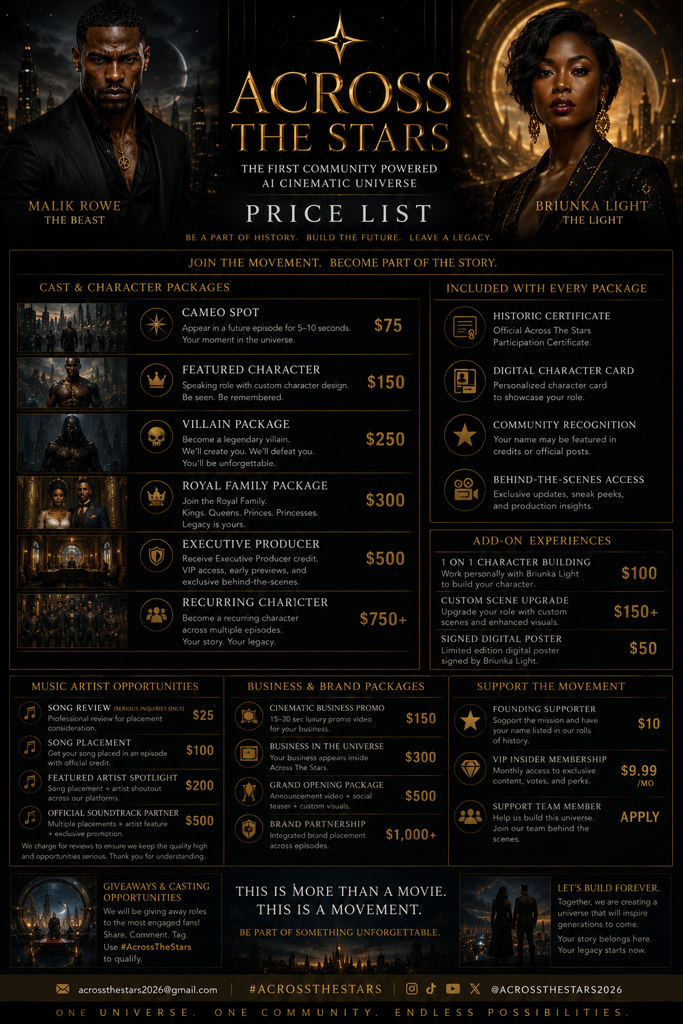
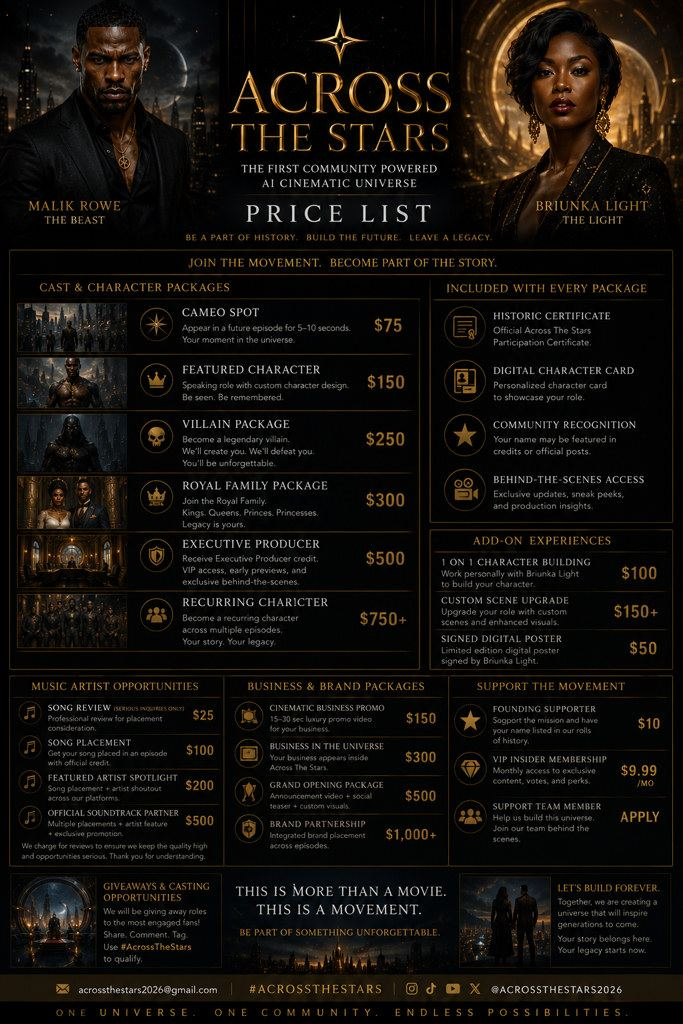
Use compressed JPEGs and Vercel serverless entry

diff --git a/js/briunka-link.js b/js/briunka-link.js
@@ -16,19 +16,19 @@ const PACKAGE_INCLUDES = [
 ];
 
 const ARTWORK = [
-    { src: 'assets/images/briunka-belight.png', label: 'Be Light' },
-    { src: 'assets/images/briunka-halo.png', label: 'Halo' },
-    { src: 'assets/images/briunka-city.png', label: 'City Lights' },
-    { src: 'assets/images/briunka-stairs.png', label: 'Ascension' },
-    { src: 'assets/images/briunka-jungle.png', label: 'Jungle Queen' },
-    { src: 'assets/images/briunka-cross.png', label: 'Divine Cross' }
+    { src: 'assets/images/briunka-belight.jpg', label: 'Be Light' },
+    { src: 'assets/images/briunka-halo.jpg', label: 'Halo' },
+    { src: 'assets/images/briunka-city.jpg', label: 'City Lights' },
+    { src: 'assets/images/briunka-stairs.jpg', label: 'Ascension' },
+    { src: 'assets/images/briunka-jungle.jpg', label: 'Jungle Queen' },
+    { src: 'assets/images/briunka-cross.jpg', label: 'Divine Cross' }
 ];
 
 const DEFAULT_CONFIG = {
     name: 'Briunka Light',
     tagline: 'Across the Stars · Light Works Entertainment',
     bio: 'The First Community Powered AI Cinematic Universe. Be part of history. Build the future. Leave a legacy.',
-    avatar: 'assets/images/briunka-halo.png',
+    avatar: 'assets/images/briunka-halo.jpg',
     heroArt: 0,
     priceSheet: 'assets/images/across-the-stars-price-sheet.jpg',
     contactEmail: 'acrossthestars2026@gmail.com',
@@ -180,18 +180,18 @@ const DEFAULT_CONFIG = {
             price: 25,
             type: 'digital',
             url: '',
-            image: 'assets/images/briunka-belight.png',
+            image: 'assets/images/briunka-belight.jpg',
             description: 'Starter digital drop — rename this in Creator Studio and set your real file or checkout.',
             visible: true
         }
     ],
     casting: [
-        { id: 'ats-cameo', name: 'Cameo Spot', movie: 'Across the Stars', position: 'Cameo · 5–10 sec appearance', description: 'Appear in a future episode for 5–10 seconds. Upload your photos — we craft your AI likeness.', price: 75, category: 'cast', requiresPhotos: true, featured: true, type: 'casting', image: 'assets/images/briunka-belight.png', visible: true },
+        { id: 'ats-cameo', name: 'Cameo Spot', movie: 'Across the Stars', position: 'Cameo · 5–10 sec appearance', description: 'Appear in a future episode for 5–10 seconds. Upload your photos — we craft your AI likeness.', price: 75, category: 'cast', requiresPhotos: true, featured: true, type: 'casting', image: 'assets/images/briunka-belight.jpg', visible: true },
         { id: 'ats-featured', name: 'Featured Character', movie: 'Across the Stars', position: 'Speaking Role', description: 'Speaking role with custom character design. Be seen. Be remembered.', price: 150, category: 'cast', requiresPhotos: true, type: 'casting', image: 'assets/images/across-the-stars-price-sheet.jpg', visible: true },
-        { id: 'ats-villain', name: 'Villain Package', movie: 'Across the Stars', position: 'Legendary Villain', description: 'Become a legendary villain. We\'ll create you. We\'ll defeat you. You\'ll be unforgettable.', price: 250, category: 'cast', requiresPhotos: true, type: 'casting', image: 'assets/images/briunka-city.png', visible: true },
-        { id: 'ats-royal', name: 'Royal Family Package', movie: 'Across the Stars', position: 'Royal Family', description: 'Join the Royal Family — Kings, Queens, Princes, Princesses. Legacy is yours.', price: 300, category: 'cast', requiresPhotos: true, type: 'casting', image: 'assets/images/briunka-halo.png', visible: true },
+        { id: 'ats-villain', name: 'Villain Package', movie: 'Across the Stars', position: 'Legendary Villain', description: 'Become a legendary villain. We\'ll create you. We\'ll defeat you. You\'ll be unforgettable.', price: 250, category: 'cast', requiresPhotos: true, type: 'casting', image: 'assets/images/briunka-city.jpg', visible: true },
+        { id: 'ats-royal', name: 'Royal Family Package', movie: 'Across the Stars', position: 'Royal Family', description: 'Join the Royal Family — Kings, Queens, Princes, Princesses. Legacy is yours.', price: 300, category: 'cast', requiresPhotos: true, type: 'casting', image: 'assets/images/briunka-halo.jpg', visible: true },
         { id: 'ats-exec', name: 'Executive Producer', movie: 'Across the Stars', position: 'Executive Producer Credit', description: 'Executive Producer credit, VIP access, early previews, and exclusive behind-the-scenes.', price: 500, category: 'cast', requiresPhotos: false, type: 'casting', image: 'assets/images/across-the-stars-price-sheet.jpg', visible: true },
-        { id: 'ats-recurring', name: 'Recurring Character', movie: 'Across the Stars', position: 'Multi-Episode Role', description: 'Become a recurring character across multiple episodes. Your story. Your legacy.', price: 750, priceLabel: '$750+', category: 'cast', requiresPhotos: true, type: 'casting', image: 'assets/images/briunka-stairs.png', visible: true },
+        { id: 'ats-recurring', name: 'Recurring Character', movie: 'Across the Stars', position: 'Multi-Episode Role', description: 'Become a recurring character across multiple episodes. Your story. Your legacy.', price: 750, priceLabel: '$750+', category: 'cast', requiresPhotos: true, type: 'casting', image: 'assets/images/briunka-stairs.jpg', visible: true },
 
         { id: 'ats-char-build', name: '1-on-1 Character Building', movie: 'Across the Stars', position: 'With Briunka Light', description: 'Private session to build your character with Briunka Light.', price: 100, category: 'addon', requiresPhotos: true, type: 'casting', image: '', visible: true },
         { id: 'ats-scene', name: 'Custom Scene Upgrade', movie: 'Across the Stars', position: 'Enhanced Visuals', description: 'Custom scenes with enhanced visuals for your character.', price: 150, priceLabel: '$150+', category: 'addon', requiresPhotos: true, type: 'casting', image: '', visible: true },

diff --git a/index.html b/index.html
@@ -8,7 +8,7 @@
     <meta property="og:title" content="Briunka Light — Light Works Universe">
     <meta property="og:description" content="Join the Skool community. Pay to join the cast. Live reviews. Be light.">
     <meta property="og:url" content="https://www.skool.com/light-works-universe-5888">
-    <meta property="og:image" content="assets/images/briunka-belight.png">
+    <meta property="og:image" content="assets/images/briunka-belight.jpg">
     <meta name="theme-color" content="#0b0b0d">
     <link rel="stylesheet" href="https://cdnjs.cloudflare.com/ajax/libs/font-awesome/6.5.1/css/all.min.css">
     <link rel="stylesheet" href="css/briunka-link.css">
@@ -27,7 +27,7 @@
             <div class="avatar-orbit">
                 <div class="avatar-ring">
                     <div class="avatar-inner">
-                        <img id="avatar-img" src="assets/images/briunka-halo.png" alt="Briunka Light">
+                        <img id="avatar-img" src="assets/images/briunka-halo.jpg" alt="Briunka Light">
                         <div class="avatar-fallback" id="avatar-fallback" style="display:none">
                             <i class="fa-solid fa-sun"></i>
                         </div>
